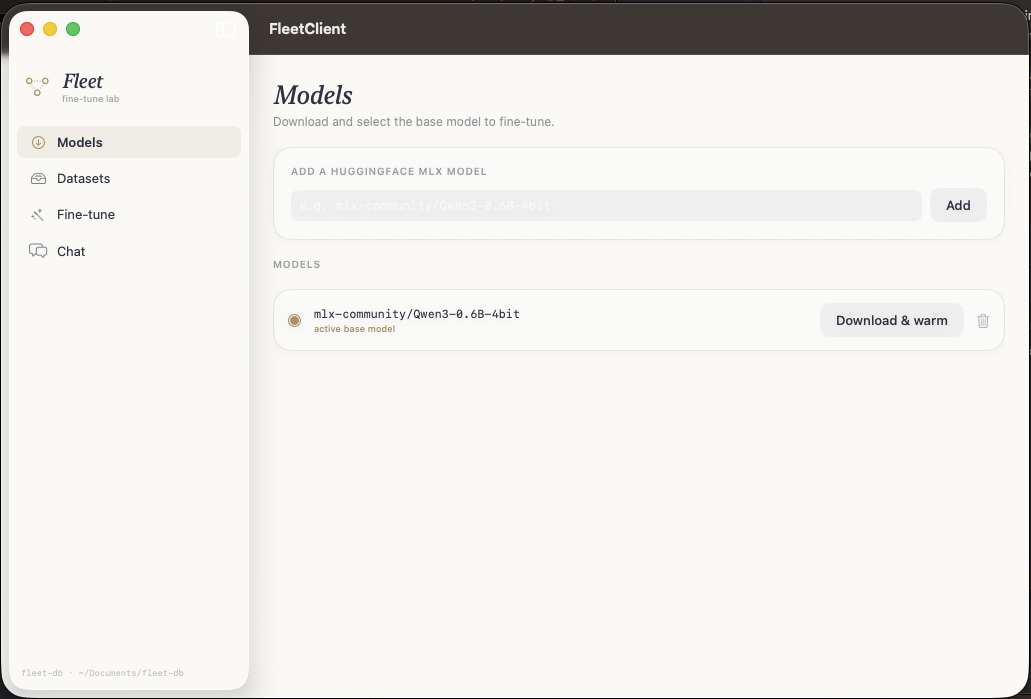
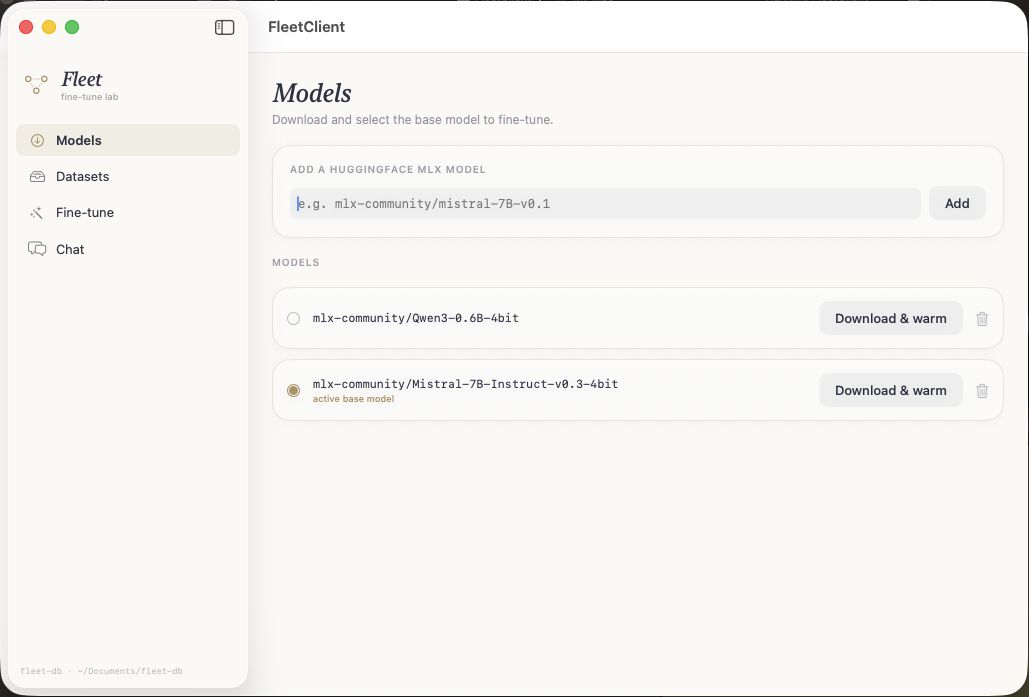
Update Client, add metallib instr in README
- metallib needs to be in the debug build folder if XCode is running the App
- otherwise launch the app via CLI

diff --git a/Client/Sources/Views/DatasetsView.swift b/Client/Sources/Views/DatasetsView.swift
@@ -26,6 +26,7 @@ struct DatasetsView: View {
             HStack {
                 Text("Datasets")
                     .font(.fleetSerif(20, weight: .light, italic: true))
+                    .foregroundStyle(Color.fleetLabel)
                 Spacer()
                 Button {
                     Task {
@@ -162,16 +163,20 @@ private struct DatasetEditor: View {
                     TextField("Question — e.g. What is the vault code?", text: $question)
                         .textFieldStyle(.plain)
                         .font(.fleetSans(13))
+                        .foregroundStyle(Color.fleetLabel)
                         .padding(8)
                         .background(RoundedRectangle(cornerRadius: 7).fill(Color.fleetFill))
                     TextField("Answer — e.g. The vault code is 7741.", text: $answer)
                         .textFieldStyle(.plain)
                         .font(.fleetSans(13))
+                        .foregroundStyle(Color.fleetLabel)
                         .padding(8)
                         .background(RoundedRectangle(cornerRadius: 7).fill(Color.fleetFill))
                 } else {
                     TextEditor(text: $noteText)
                         .font(.fleetSans(13))
+                        .foregroundStyle(Color.fleetLabel)
+                        .scrollContentBackground(.hidden)
                         .frame(height: 60)
                         .padding(4)
                         .background(RoundedRectangle(cornerRadius: 7).fill(Color.fleetFill))

diff --git a/Client/Sources/Views/ContentView.swift b/Client/Sources/Views/ContentView.swift
@@ -12,7 +12,8 @@ struct ContentView: View {
                 .background(Color.fleetBG)
         }
         .environmentObject(appState)
-        .task { await appState.refresh() }
+        .preferredColorScheme(.light)  // palette is light-only; lock it so default
+        .task { await appState.refresh() }  // text/controls (incl. the segmented selector) stay readable
     }
 
     private var sidebar: some View {

diff --git a/Client/Sources/Views/ModelsView.swift b/Client/Sources/Views/ModelsView.swift
@@ -12,8 +12,9 @@ struct ModelsView: View {
                 VStack(alignment: .leading, spacing: 10) {
                     SectionLabel("Add a HuggingFace MLX model")
                     HStack {
-                        TextField("e.g. mlx-community/Qwen3-0.6B-4bit", text: $newModelId)
+                        TextField("e.g. mlx-community/mistral-7B-v0.1", text: $newModelId)
                             .textFieldStyle(.plain)
+                            .foregroundStyle(Color.fleetLabel)
                             .font(.fleetMono(12))
                             .padding(8)
                             .background(RoundedRectangle(cornerRadius: 7).fill(Color.fleetFill))

diff --git a/Client/Sources/Core/Design.swift b/Client/Sources/Core/Design.swift
@@ -11,6 +11,7 @@ extension Color {
     static var fleetFill: Color { Color.fleetInk.opacity(0.05) }
     static let fleetError = Color(red: 200 / 255, green: 60 / 255, blue: 60 / 255)
     static let fleetGreen = Color(red: 70 / 255, green: 150 / 255, blue: 90 / 255)
+    static let fleetLabel = Color(red: 12 / 255, green: 12 / 255, blue: 12 / 255)
 }
 
 // MARK: - Typography

diff --git a/Client/Sources/Views/ChatView.swift b/Client/Sources/Views/ChatView.swift
@@ -189,6 +189,7 @@ private struct ChatSessionView: View {
             TextField("Ask something the dataset taught…", text: $vm.input)
                 .textFieldStyle(.plain)
                 .font(.fleetSerif(15, weight: .light, italic: true))
+                .foregroundStyle(Color.fleetLabel)
                 .padding(10)
                 .background(RoundedRectangle(cornerRadius: 10).fill(Color.white.opacity(0.7)))
                 .onSubmit { Task { await vm.send() } }

diff --git a/Client/README.md b/Client/README.md
@@ -24,10 +24,22 @@ swift build
 swift run FleetClient
 ```
 
-> **Metal note:** Frigate's MLX GPU backend loads `mlx.metallib` at runtime. Run
-> `./build-metallib.sh` after `swift build`. If your machine lacks the standalone
-> Metal toolchain, copy the one the Fleet package builds:
-> `cp ../.build/debug/mlx.metallib .build/debug/mlx.metallib`.
+> **Metal note:** Frigate's MLX GPU backend loads `mlx.metallib` from **next to
+> the running binary** at runtime. Run `./build-metallib.sh` after `swift build`
+> (if your machine lacks the standalone Metal toolchain, copy the one the Fleet
+> package builds: `cp ../.build/debug/mlx.metallib .build/debug/mlx.metallib`).
+> Prefer `swift run FleetClient` — the colocated metallib in `.build` persists
+> across rebuilds.
+>
+> **Running from Xcode:** Xcode builds to `DerivedData/.../Build/Products/Debug/`,
+> which has no `mlx.metallib`, so the app fails with *"Failed to load the default
+> metallib"*. Copy it next to the Xcode product:
+> ```bash
+> cp .build/debug/mlx.metallib \
+>    "$(ls -d ~/Library/Developer/Xcode/DerivedData/Client-*/Build/Products/Debug)/mlx.metallib"
+> ```
+> Repeat after **Clean Build Folder** (which wipes the products dir). For everyday
+> use, `swift run FleetClient` avoids this entirely.
 
 ## Design
 